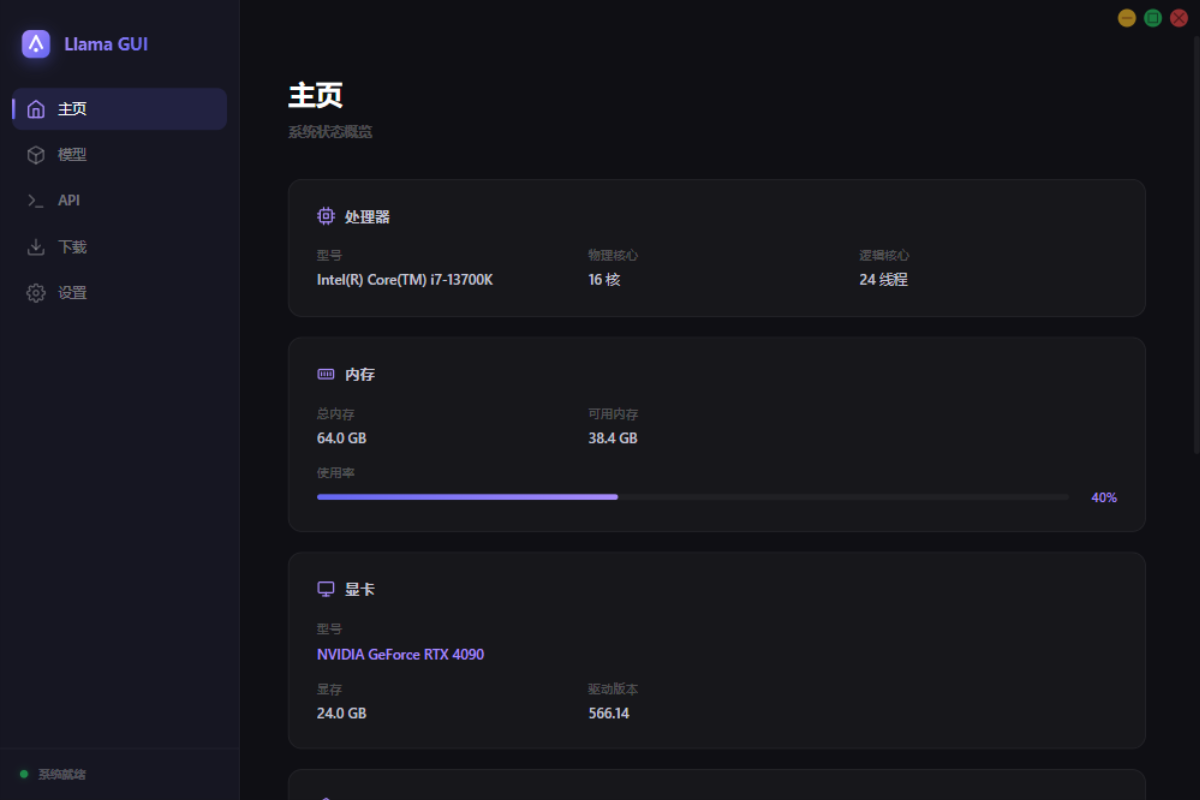
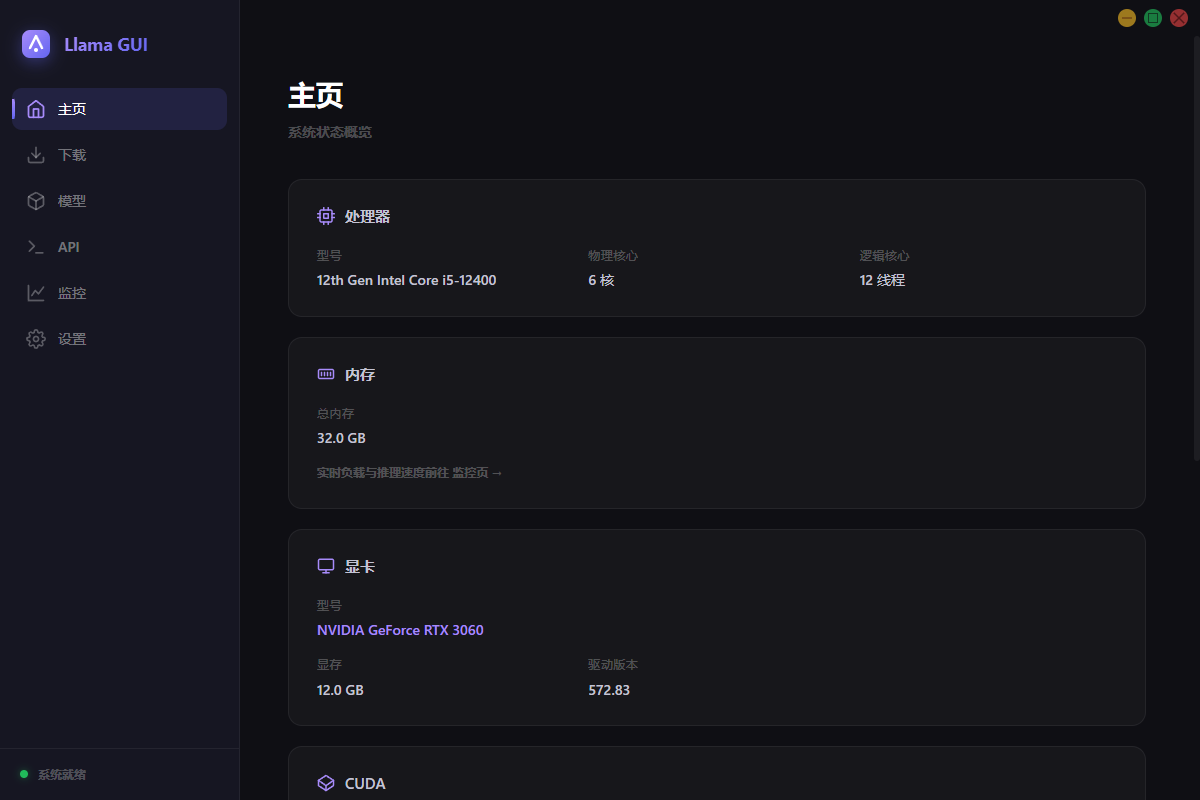
docs: README 中英文重写并新增 MIT 协议，更新全部界面截图
Summary:
- Docs: README.md 重写（中文，默认）：新增「监控」界面预览章节（推理服务双指标+折线图+资源负载）、下载页双源描述（HF Mirror + ModelScope）、下载任务队列持久化、应用自更新、模型参数 Tabs 布局与新参数（投机解码 MTP / 多卡切分 / mmproj 等）、配置字段与项目结构同步、FAQ 更新（含「监控页速度显示 0」）；顶部增加 README.en.md 语言链接，末尾增加 MIT 协议章节
- Docs: 新增 README.en.md 英文版（与中文版结构完全对应，顶部互链回 README.md）
- Docs: 新增 LICENSE（标准 MIT，Copyright (c) 2026 Llama GUI contributors）
- Docs: docs/screenshots/ 更新 7 张旧截图并新增 monitor-light.png（监控页），共 8 张 1200x800；由 Playwright 驱动 Vite（5174 端口）+ addInitScript 注入 window.go mock 生成，mock 全部为通用假数据（无本机真实路径/配置），监控页折线图约 46 个采样点

Verification:
- git diff --check 与 git diff --cached --check 均无错误
- 8 张 PNG 程序化验证：PNG 魔数与 IHDR 尺寸（全部 1200x800）、大小 42-82 KB（无空白图）、浅色页平均亮度 243-247 / 深色页 24
- 截图期间各页面零组件渲染报错（仅 favicon 404 开发服务器噪音）
- README 中 8 个图片链接与 docs/screenshots/ 实际文件逐一对应；本次为纯文档提交，按「免测试提交」档跳过测试套件

Remaining gaps:
- 截图视觉内容仅程序化验证（尺寸/亮度/非空白/零渲染错误），未经人工肉眼复核；如需调整可随时重拍

diff --git a/README.en.md b/README.en.md
@@ -1,0 +1,234 @@
+# Llama GUI
+
+![CI](https://github.com/CodeNeow/llama-cpp-gui/actions/workflows/ci.yml/badge.svg)
+
+[中文](README.md)
+
+_✨ Run llama.cpp locally on your desktop with one click — OpenAI-compatible API out of the box ✨_
+
+Llama GUI is a local LLM desktop management tool built on **Wails v2** (Go + WebView2). It brings the entire [llama.cpp](https://github.com/ggml-org/llama.cpp) pipeline — **download → model management → parameter configuration → service startup → API calls → real-time monitoring** — into a single window, so you never have to touch the command line.
+
+## Screenshots
+
+### Home — System Overview
+
+Automatically detects CPU / memory / NVIDIA GPU / CUDA environment and shows the llama.cpp installation status; if not installed, you can download it in one click, or point the app to a custom directory. A footer hint links to the Monitor page for real-time load and inference speed.
+
+![Home](docs/screenshots/home-light.png)
+
+### Monitor — Real-time Load & Inference Speed
+
+The inference service section shows a service status badge and uptime, with two side-by-side metric cards for prompt-processing speed and generation speed, plus a line chart of generation speed (refreshed every 1 second). Below are live CPU / memory / GPU load. Prompt-processing speed updates in real time during prefilling and settles on its final value when the request ends; generation speed reflects live decoding throughput.
+
+![Monitor](docs/screenshots/monitor-light.png)
+
+### Models — GGUF Model Management
+
+Scans GGUF files under the `LLM-Models` directory, automatically parsing architecture, quantization level, and file size, and recognizing multimodal models (mmproj) and embedding models. You can switch the model directory via the "Select Folder" button.
+
+![Model list](docs/screenshots/models-light.png)
+
+### Model Parameter Settings
+
+Configure inference parameters per model in a tabbed dialog (Basic / Inference / Memory & Loading / Multi-GPU / Long Context / Advanced, 6 tabs): CPU threads, GPU layers, context size, Batch / μBatch, MoE CPU layers, KV cache K/V types, loading mode (mlock / mmap), model splitting mode, per-GPU ratio, main GPU, RoPE extrapolation mode and scale, vision projection file (mmproj), speculative decoding (MTP) with extra prediction tokens, and more. Saving writes the settings into a llama-server preset.
+
+![Model settings](docs/screenshots/models-settings-light.png)
+
+### API — llama-server Router Mode
+
+Start / stop llama-server (router mode) with one click, configuring Host / Port, the maximum number of concurrently loaded models (`--models-max`), and prompt cache (`--cache-ram`). A built-in live service log and the count of available models are shown. Embedding models are automatically flagged with `embeddings = true` and mmproj files are auto-associated.
+
+![API service](docs/screenshots/api-light.png)
+
+### Downloads — Dual-Source Model Search
+
+Search and download models via **HF Mirror (hf-mirror.com) or ModelScope (魔搭)** (HF Mirror is the default; switch in Settings). Search results expand into file lists (sorted by size, with quantization tags detected) and support multi-file batch downloads. Download tasks live in a popup behind the "Download" button (the button badge shows the number of active tasks), with pause / resume / cancel, resumable transfers, live speed display, and a persisted queue that auto-recovers after a restart.
+
+![Model downloads](docs/screenshots/downloads-light.png)
+
+### Settings — Theme & Download Source
+
+Switch between dark / light themes with one click; the preference persists automatically. You can also choose the default download source (HF Mirror / ModelScope) and check for updates, which downloads the new version in a dialog so you can finish the update by manually replacing the program files.
+
+![Settings](docs/screenshots/settings-light.png)
+
+### Dark Theme
+
+The app also ships a dark appearance for late-night use.
+
+![Home in dark theme](docs/screenshots/home-dark.png)
+
+## Features
+
+1. **Environment detection**: CPU model and core count, memory size, NVIDIA GPU VRAM and driver, CUDA driver / Toolkit versions, and OS information.
+2. **One-click llama.cpp install**: Fetches the latest release from GitHub Releases, downloads and extracts it, with resumable transfers and pause / resume / stop; a custom llama.cpp directory can also be specified manually.
+3. **Automatic model scanning**: Reads all `.gguf` files under `LLM-Models`, parses model architecture (Qwen2 / Llama / DeepSeek, etc.) and quantization level, and recognizes multimodal (mmproj) and embedding models.
+4. **Per-model parameter configuration**: A tabbed dialog (Basic / Inference / Memory & Loading / Multi-GPU / Long Context / Advanced, 6 tabs) covering CPU threads, GPU layers, context size, Batch / μBatch, MoE CPU layers, KV cache K/V types, mlock / mmap loading, model splitting with per-GPU ratio, main GPU, RoPE extrapolation, vision projection file (mmproj), speculative decoding (MTP), etc., persisted per model and written into a llama-server preset.
+5. **llama-server router mode**: Start / stop the service with one click, manage multiple concurrently loaded models (`--models-max`) and prompt cache (`--cache-ram`); model presets (INI) are generated automatically, embedding models are flagged with `embeddings = true`, and mmproj files are auto-associated.
+6. **Dual-source model downloads**: Search model repositories via HF Mirror (hf-mirror.com) or ModelScope (魔搭), expand file lists (sorted by size, quantization tags detected), and batch-download multiple files. Tasks support pause / resume / cancel and resumable transfers; the queue persists and recovers after a restart.
+7. **OpenAI-compatible API**: Once the service is up, any OpenAI-compatible client can connect directly (ChatGPT-Next-Web, LobeChat, Open WebUI, etc.).
+8. **Real-time monitoring**: Inference service status and uptime, side-by-side prompt-processing / generation speed cards, a generation speed line chart, plus live CPU / memory / GPU load — refreshed every 1 second.
+9. **Self-update**: "Check for Updates" in Settings detects new versions, downloads the update package in a dialog, and you complete the upgrade by manually replacing the program files.
+10. **Theme system**: Dark / light themes based on CSS variables, with the preference persisted locally.
+
+## Tech Stack
+
+| Layer | Technology |
+| --- | --- |
+| Desktop framework | [Wails v2](https://wails.io) (Go 1.22 + WebView2) |
+| Backend | Go (stdlib-focused, zero third-party business dependencies) |
+| Frontend | Vue 3 + TypeScript + Vite 5 + vue-router (no third-party UI libraries, hand-written CSS-variable themes) |
+| Inference engine | [llama.cpp](https://github.com/ggml-org/llama.cpp) (llama-server, router mode) |
+| Model sources | Hugging Face Mirror [hf-mirror.com](https://hf-mirror.com) + [ModelScope (魔搭)](https://modelscope.cn) |
+
+```mermaid
+graph LR
+    A[Vue 3 frontend] -->|window.go.core.App<br/>Wails bindings| B[Go backend]
+    B -->|start / stop / logs / monitoring| C[llama-server]
+    C -->|load / unload on demand| D[LLM-Models/*.gguf]
+    B -->|GitHub Releases| E[llama.cpp download]
+    B -->|hf-mirror.com / ModelScope API| F[model search / download]
+    G[OpenAI-compatible client] -->|HTTP /v1| C
+```
+
+## Quick Start
+
+### Prerequisites
+
+- [Go](https://go.dev/dl/) 1.22+
+- [Node.js](https://nodejs.org/) 18+ (for building the frontend)
+- [Wails CLI](https://wails.io/docs/gettingstarted/installation):
+
+```bash
+go install github.com/wailsapp/wails/v2/cmd/wails@latest
+```
+
+### Development Mode (hot reload)
+
+```bash
+wails dev
+```
+
+`wails dev` starts the Go backend and the Vite dev server (`http://localhost:5173`) together. Frontend changes take effect instantly, and the backend recompiles and restarts automatically.
+
+### Production Build
+
+```bash
+wails build
+```
+
+The artifacts are output to `build/bin/` (`llama-gui.exe` on Windows).
+
+## Usage Guide
+
+1. **Prepare models**: Put GGUF model files into the `LLM-Models` folder at the project root:
+
+   ```
+   LLM-Models/qwen2.5-7b-instruct-q4_k_m.gguf
+   ```
+
+   You can also search HF Mirror or ModelScope in the Downloads page and download straight into that directory (HF Mirror is the default; switch the source in Settings).
+
+2. **Install llama.cpp**: On first use, click "Download llama.cpp" on the Home page to install the latest version automatically; if you already have a local build, click "Custom" and point to that directory.
+
+3. **Configure model parameters (optional)**: On the Models page, click the gear icon on a model card to adjust threads, GPU layers, context size, speculative decoding, and more.
+
+4. **Start the service**: Go to the API page, confirm Host / Port (default `127.0.0.1:8080`), and click "Start Service".
+
+5. **Connect a client**: Once the service is running, it exposes an OpenAI-compatible endpoint. Configure any client as follows:
+
+   ```bash
+   OPENAI_BASE_URL="http://127.0.0.1:8080/v1"
+   OPENAI_API_KEY="sk-any-local-value"   # the local service does no auth; a placeholder is enough
+   ```
+
+   Set the `model` field to the GGUF file name directly (e.g. `qwen2.5-7b-instruct-q4_k_m.gguf`); llama-server loads / unloads the model automatically.
+
+6. **Watch monitoring**: Open the Monitor page to see inference service status, prompt-processing / generation speed, and live CPU / memory / GPU load.
+
+## Project Structure
+
+```
+llama-cpp-gui/
+├── main.go            # Wails entry (window config, asset embedding, core.App binding)
+├── core/              # Go backend logic package
+│   ├── app.go         # Wails binding methods (config, system info, models, service, downloads, monitor, update)
+│   ├── engine.go      # Core logic: environment detection, model scanning, llama.cpp download, preset generation, config persistence
+│   ├── bridge.go      # Bridge helpers: service start / stop, download triggering, etc.
+│   ├── monitor.go     # Real-time sampling (service status / inference speed / system resources)
+│   ├── modelscope.go  # ModelScope (魔搭) model source
+│   ├── hidewindow_windows.go   # Hides child-process console windows (Windows)
+│   └── *_test.go      # Backend unit tests (config / GGUF / model scanning / presets / downloads / service / monitor, etc.)
+├── wails.json         # Wails project config
+├── llama-gui-config.json   # Runtime-persisted config (theme / directories / model params / service config / download source / tasks)
+├── LLM-Models/        # Model directory (put .gguf files here)
+└── frontend/
+    ├── src/
+    │   ├── App.vue            # Layout (sidebar + custom title bar)
+    │   ├── wails.ts           # Wails backend bridge (window.go.core.App)
+    │   ├── store.ts           # Global state (theme)
+    │   ├── router/            # Routes (hash mode: Home / Downloads / Models / API / Monitor / Settings)
+    │   ├── views/             # Pages: Home / Downloads / Models / Api / Monitor / Settings
+    │   ├── components/        # Sidebar, ModelSettings, UpdateModal
+    │   ├── lib/               # Pure-function utilities (formatting, download queue, monitoring, updates, etc.)
+    │   ├── __tests__/         # Frontend unit tests (vitest)
+    │   └── styles/            # Global styles and CSS-variable themes
+    └── wailsjs/              # Auto-generated Wails bindings (do not edit; regenerated at build)
+```
+
+## Configuration
+
+Runtime configuration is persisted to `llama-gui-config.json` at the project root and includes:
+
+- `theme`: theme (`dark` / `light`)
+- `llamaCppDir`: custom llama.cpp directory
+- `modelDir`: model directory (defaults to `LLM-Models`)
+- `modelConfigs`: per-model inference parameters
+- `serverConfig`: service address (`host` / `port`), max concurrently loaded models (`maxModels`), prompt cache size (`cacheRam`, MiB)
+- `downloadSource`: default download source (`hf` / `modelscope`)
+- `downloadTasks`: download task queue (recovered after a restart)
+
+## FAQ
+
+1. **The Models page says "No models found"?**
+   Put `.gguf` files into the `LLM-Models` directory and refresh (re-enter the page or restart the app). Only GGUF files are recognized.
+
+2. **Starting the service on the API page fails?**
+   Make sure the llama.cpp status on the Home page is "Installed"; if you use a custom directory, confirm that `llama-server.exe` exists in it. The startup log will print the exact error.
+
+3. **Downloading llama.cpp is slow or fails?**
+   The source is GitHub Releases; when the network is restricted you can:
+   - manually download and extract the llama.cpp release for your platform, then click "Custom" on the Home page and select that directory;
+   - downloads can be paused / resumed at any time and support resumable transfers.
+
+4. **Downloading models is slow?**
+   The Downloads page uses the hf-mirror.com mirror by default, which usually works directly on mainland networks. If it is still unsatisfactory, switch the download source to ModelScope (魔搭) in Settings and try again. Multiple files can be downloaded in parallel, with flexible pause / cancel control.
+
+5. **The Monitor page shows a speed of 0?**
+   When the service is not running or there is no active request, the speed metrics show a placeholder / 0; this is expected. They start refreshing in real time once the service is running and requests are made.
+
+6. **How do I use embedding models?**
+   Put embedding models such as bge / all-MiniLM / gte into `LLM-Models`; after starting the service they are automatically flagged as embedding models (`embeddings = true`) and can be called via the `/v1/embeddings` endpoint, e.g. for RAG scenarios.
+
+## Common Dev Commands
+
+```bash
+wails dev                  # dev mode (frontend + backend hot reload)
+wails build                # production build
+cd frontend && npm run build    # build the frontend only
+```
+
+## Release
+
+CI (`.github/workflows/ci.yml`) automatically builds and publishes Windows artifacts (portable `llama-gui.exe` + NSIS installer `llama-gui-amd64-setup.exe`) in these scenarios:
+
+- **Stable release**: pushing a `v*` tag (e.g. `v1.0.0`) automatically creates a full release with change notes;
+- **Preview release**: manually running CI from the GitHub Actions page (`workflow_dispatch`) creates a draft release.
+
+```bash
+git tag v1.0.0 && git push origin v1.0.0
+```
+
+## License
+
+This project is licensed under the [MIT License](LICENSE).
